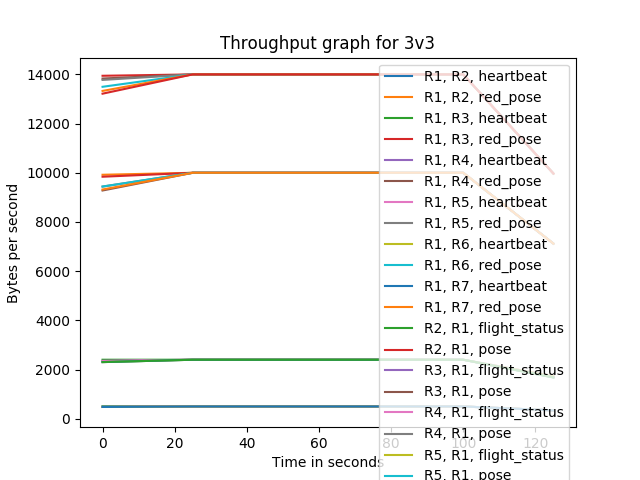
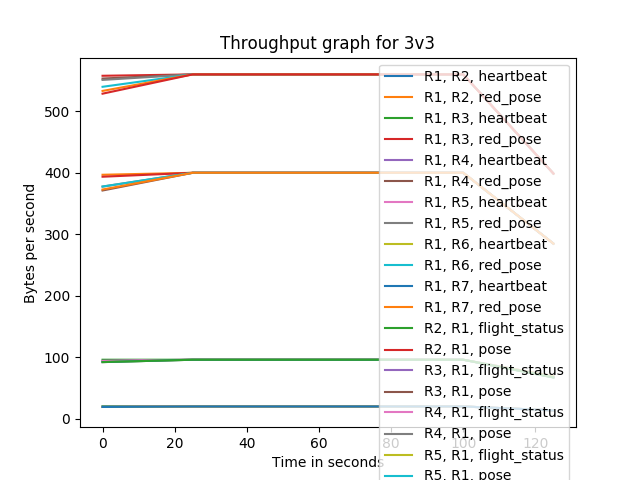
fix throughput calculation

diff --git a/testbed_monitor/plot_analytics.py b/testbed_monitor/plot_analytics.py
@@ -172,7 +172,7 @@ if __name__=="__main__":
         # value = int throughputs
         key_string = "%s, %s, %s"%(key[0],key[1],key[2])
         throughputs_x[key_string].append(key[3]) # second
-        throughputs_y[key_string].append(sum(value))
+        throughputs_y[key_string].append(sum(value)/bar_period)
 
     # percent loss
     percent_losses_x = defaultdict(list)
